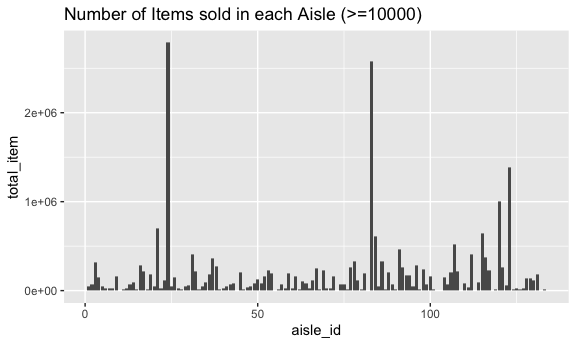
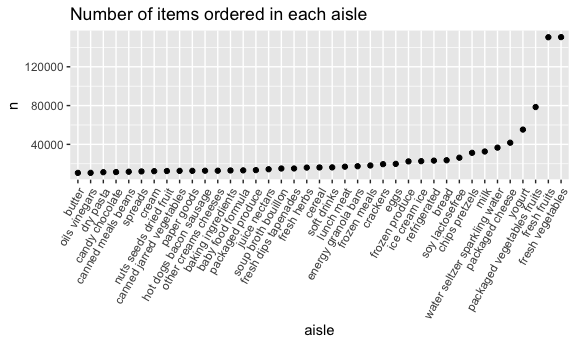
changed p1

diff --git a/p8105_hw3_lz2949.md b/p8105_hw3_lz2949.md
@@ -37,6 +37,17 @@ library(p8105.datasets)
 data("instacart")
 ```
 
+This dataset contains 1384617 rows and 15 columns, with each row
+resprenting a single product from an instacart order. Variables include
+identifiers for user, order, and product; the order in which each
+product was added to the cart. There are several order-level variables,
+describing the day and time of the order, and number of days since prior
+order. Then there are several item-specific variables, describing the
+product name (e.g. Yogurt, Avocado), department (e.g. dairy and eggs,
+produce), and aisle (e.g. yogurt, fresh fruits), and whether the item
+has been ordered by this user in the past. In total, there are 39123
+products found in 131209 orders from 131209 distinct users.
+
 ``` r
 num_aisles = unique(instacart$aisle_id) # number of distinct aisles numbers
 frequent_aisles = 
@@ -50,15 +61,14 @@ make a plot that shows the number of items ordered in each aisle, (only
 aisles ordered more than 10000 items)
 
 ``` r
-item_aisles = instacart %>%
-  group_by (aisle_id) %>%
-  summarize(total_item = sum(order_number)) |>
-  filter(total_item >= 10000) |>
-  ggplot(aes(x = aisle_id, y = total_item)) +
-  geom_bar(stat = "identity") +
-  labs(title = "Number of Items sold in each Aisle (>=10000)")
- 
-print(item_aisles) 
+instacart |>
+  count(aisle) |> 
+  filter(n > 10000) |> 
+  mutate(aisle = fct_reorder(aisle, n)) |> 
+  ggplot(aes(x = aisle, y = n)) + 
+  geom_point() + 
+  labs(title = "Number of items ordered in each aisle") +
+  theme(axis.text.x = element_text(angle = 60, hjust = 1))
 ```
 
 <img src="p8105_hw3_lz2949_files/figure-gfm/unnamed-chunk-4-1.png" width="90%" />
@@ -67,52 +77,27 @@ Make a table showing the three most popular items in “baking
 ingredients”, “dog food care”, and “packaged vegetable fruits”
 
 ``` r
-three_aisle = instacart %>%
-  filter(aisle %in% c("baking ingredients", "dog food care", "packaged vegetables fruits"))
-
-# filter product name and add the order_number together
-pop_baking = three_aisle  %>%
-  filter(aisle == "baking ingredients") %>%
-  group_by (product_name) %>%
-  summarize(total_item = sum(order_number))
-most_baking = pop_baking %>%
-  arrange(desc(total_item)) %>%
-  slice (1) %>%
-  mutate(aisle = "baking ingredients")
-
-# perform similar action to other two aisle
-pop_dog = three_aisle  %>%
-  filter(aisle == "dog food care") %>%
-  group_by (product_name) %>%
-  summarize(total_item = sum(order_number))
-most_dog= pop_dog %>%
-  arrange(desc(total_item)) %>%
-  slice (1) %>%
-  mutate(aisle = "dog food care")
-
-pop_veg = three_aisle  %>%
-  filter(aisle == "packaged vegetables fruits") %>%
-  group_by (product_name) %>%
-  summarize(total_item = sum(order_number))
-most_veg= pop_veg %>%
-  arrange(desc(total_item)) %>%
-  slice (1) %>%
-  mutate(aisle = "packaged vegetables fruits")
-
-
-# arragne most_baking/dog/veg to a table 
-combined_most = bind_rows(most_baking, most_dog, most_veg)
-kable(combined_most, 
-      caption = "Most popular items in three aisles") 
+instacart |> 
+  filter(aisle %in% c("baking ingredients", "dog food care", "packaged vegetables fruits")) |>
+  group_by(aisle) |> 
+  count(product_name) |> 
+  mutate(rank = min_rank(desc(n))) |> 
+  filter(rank < 4) |> 
+  arrange(desc(n)) |>
+  knitr::kable()
 ```
 
-| product_name                 | total_item | aisle                      |
-|:-----------------------------|-----------:|:---------------------------|
-| Light Brown Sugar            |       8605 | baking ingredients         |
-| Standard Size Pet Waste bags |        675 | dog food care              |
-| Organic Baby Spinach         |     171301 | packaged vegetables fruits |
-
-Most popular items in three aisles
+| aisle                      | product_name                                  |    n | rank |
+|:---------------------------|:----------------------------------------------|-----:|-----:|
+| packaged vegetables fruits | Organic Baby Spinach                          | 9784 |    1 |
+| packaged vegetables fruits | Organic Raspberries                           | 5546 |    2 |
+| packaged vegetables fruits | Organic Blueberries                           | 4966 |    3 |
+| baking ingredients         | Light Brown Sugar                             |  499 |    1 |
+| baking ingredients         | Pure Baking Soda                              |  387 |    2 |
+| baking ingredients         | Cane Sugar                                    |  336 |    3 |
+| dog food care              | Snack Sticks Chicken & Rice Recipe Dog Treats |   30 |    1 |
+| dog food care              | Organix Chicken & Brown Rice Recipe           |   28 |    2 |
+| dog food care              | Small Dog Biscuits                            |   26 |    3 |
 
 Make a table showing the mean hour of the day at which Pink lady apples
 and coffee ice cream are orderd on each day of the week.
@@ -121,13 +106,13 @@ and coffee ice cream are orderd on each day of the week.
 app_cream = 
   instacart |>
   filter(product_name == "Pink Lady Apples" | product_name == "Coffee Ice Cream") |>
-  group_by(order_dow, product_name) |>
+  group_by(product_name, order_dow) |>
   summarize(mean_time = mean(order_hour_of_day)) |>
   pivot_wider(names_from = product_name,
               values_from = mean_time) 
 ```
 
-    ## `summarise()` has grouped output by 'order_dow'. You can override using the
+    ## `summarise()` has grouped output by 'product_name'. You can override using the
     ## `.groups` argument.
 
 ``` r
@@ -188,7 +173,8 @@ states_ten = states_ten |>
   filter(unique_locations >= 7)
 ```
 
-Comments:
+Comments: In 2002, there are 6 states observed at 7 or more locations;
+in 2010, the number is 14.
 
 Construct a dataset that is limited to Excellent responses and contains,
 year, state, and a variable averages the data_value accross locations
@@ -239,7 +225,9 @@ ggplot(ny_df, aes(x = year, fill = response)) + geom_bar() +
 # among locations??
 ```
 
-Comments:
+Comments: In 2010, more responses are collected. In 2010, there are 45
+responses, and in 2006, the number is 30. By looking at the plot, poor
+to excellent responses are evenly distributed among all responses.
 
 ## Problem 3
 
@@ -296,8 +284,8 @@ Create a reader-friendly table for the number of men and women in each
 education category.
 
 ``` r
-education_table = m_nhanes %>%
-  group_by(education, sex) %>%
+education_table = m_nhanes |>
+  group_by(education, sex) |>
   summarize(count = n()) |>
   pivot_wider(names_from =  sex, 
               values_from = count)
@@ -318,7 +306,8 @@ kable(education_table, caption = "Sex and corresponding education level")
 
 Sex and corresponding education level
 
-Comments:
+Comments: At high school equivalent, number of males is larger than
+female, there are
 
 Create a visualization of the age distributions for men and women in
 each education category.
